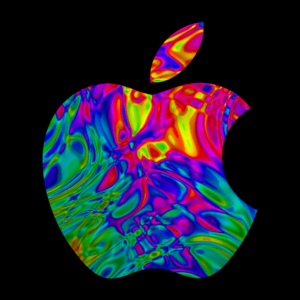
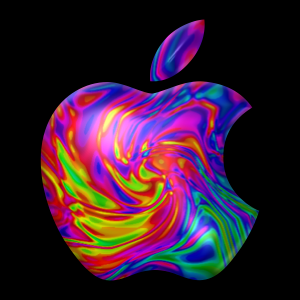
README: add Bands preview, refresh Psychedelic and Puppy previews
Rendered offscreen from the 1.3.5 shaders. Thumbnails shown at 200px.

diff --git a/README.md b/README.md
@@ -68,20 +68,21 @@ Pick a background in **System Settings → Screen Saver → Options…**, or cho
 
 | | Background | Description |
 |:-:|---|---|
-| <img src="art/types/rainbow.png" width="120"/> | **Rainbow Bars** | The classic six-color stripes, scrolling slowly up through the logo. This is the original animation, the one that gave me the idea for this project, and I am infinitely grateful for it. |
-| <img src="art/types/solid.png" width="120"/> | **Solid** | One flat color that fades through the rainbow palette. |
-| <img src="art/types/linearGradient.png" width="120"/> | **Linear Gradient** | A top-to-bottom gradient of the rainbow colors that shifts over time. |
-| <img src="art/types/circularGradient.png" width="120"/> | **Circular Gradient** | A radial gradient of the rainbow colors that shifts over time. |
-| <img src="art/types/psychedelic.png" width="120"/> | **Psychedelic** | Fast, heavily warped plasma with hard color bands. |
+| <img src="art/types/rainbow.png" width="200"/> | **Rainbow Bars** | The classic six-color stripes, scrolling slowly up through the logo. This is the original animation, the one that gave me the idea for this project, and I am infinitely grateful for it. |
+| <img src="art/types/solid.png" width="200"/> | **Solid** | One flat color that fades through the rainbow palette. |
+| <img src="art/types/linearGradient.png" width="200"/> | **Linear Gradient** | A top-to-bottom gradient of the rainbow colors that shifts over time. |
+| <img src="art/types/circularGradient.png" width="200"/> | **Circular Gradient** | A radial gradient of the rainbow colors that shifts over time. |
+| <img src="art/types/psychedelic.png" width="200"/> | **Psychedelic** | A bevelled fruit filled with warped plasma that swirls like a stirred drink, speeding up in short bursts. |
 | <img src="art/types/california-spring.png" width="58"/> <img src="art/types/california-summer.png" width="58"/><br><img src="art/types/california-fall.png" width="58"/> <img src="art/types/california-winter.png" width="58"/> | **California** | A leaf with pulsing veins, dew drops and a wandering ladybird. Day/night and the season follow your clock; shown at midday in spring, summer, fall and winter. |
-| <img src="art/types/liquid.png" width="120"/> | **Liquid** | Smooth, layered domain-warped flow with soft color bands. |
-| <img src="art/types/puppy.png" width="120"/> | **Puppy** | A beveled 3D logo lit by a lamp that orbits it and slowly changes hue. |
-| <img src="art/types/warp.png" width="120"/> | **Warp Speed** | A relativistic star field that starts at rest; as the ship speeds up, stars stretch into streaks, shift color and crowd the center. |
-| <img src="art/types/ocean.png" width="120"/> | **Irish Ocean** | A dark North Atlantic sea with rolling waves, foam and spray. |
-| <img src="art/types/glass.png" width="120"/> | **Glass** | A thick glass slab over polarized-light rainbow fringes. |
-| <img src="art/types/metallic.png" width="120"/> | **Metallic** | A liquid-metal surface reflecting a studio environment. |
-| <img src="art/types/pogo.png" width="120"/> | **POGO** | Organic, Turing-like patterns that crawl and reshape. |
-| <img src="art/types/glue.png" width="120"/> | **Glue** | Glossy blobs that drift and merge like drops of glue. |
+| <img src="art/types/liquid.png" width="200"/> | **Liquid** | Smooth, layered domain-warped flow with soft color bands. |
+| <img src="art/types/puppy.png" width="200"/> | **Puppy** | A glossy, softly glowing 3D logo lit by a lamp that orbits it and slowly changes hue. |
+| <img src="art/types/warp.png" width="200"/> | **Warp Speed** | A relativistic star field that starts at rest; as the ship speeds up, stars stretch into streaks, shift color and crowd the center. |
+| <img src="art/types/ocean.png" width="200"/> | **Irish Ocean** | A dark North Atlantic sea with rolling waves, foam and spray. |
+| <img src="art/types/glass.png" width="200"/> | **Glass** | A thick glass slab over polarized-light rainbow fringes. |
+| <img src="art/types/metallic.png" width="200"/> | **Metallic** | A liquid-metal surface reflecting a studio environment. |
+| <img src="art/types/pogo.png" width="200"/> | **POGO** | Organic, Turing-like patterns that crawl and reshape. |
+| <img src="art/types/glue.png" width="200"/> | **Glue** | Glossy blobs that drift and merge like drops of glue. |
+| <img src="art/types/bands.png" width="200"/> | **Bands** | Rainbow rings grow from the middle of the fruit and the leaf, bending into their outlines as they expand. |
 
 *New designs are welcome through PRs!*
 
